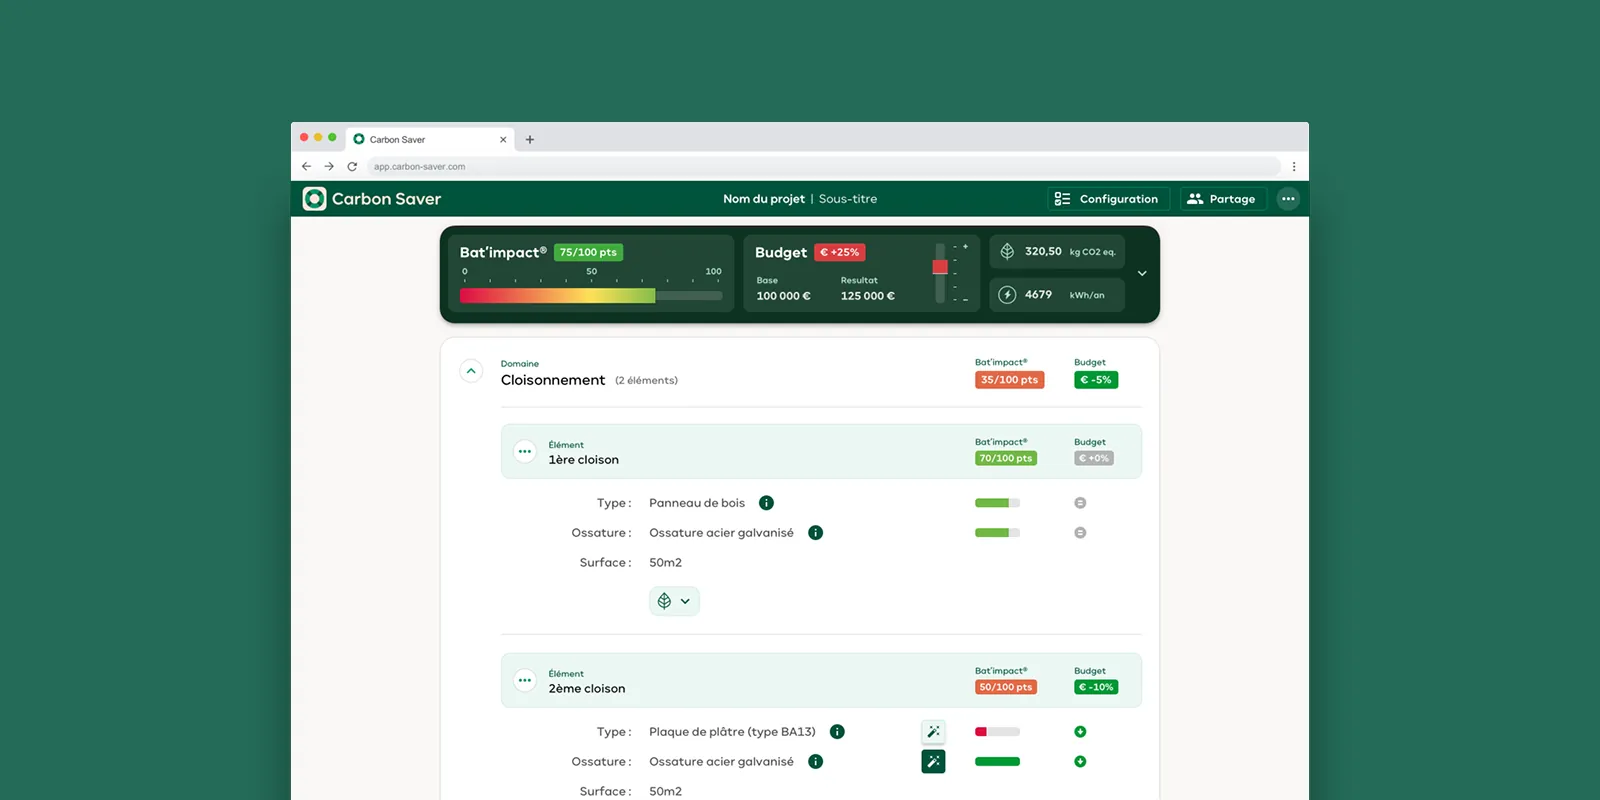
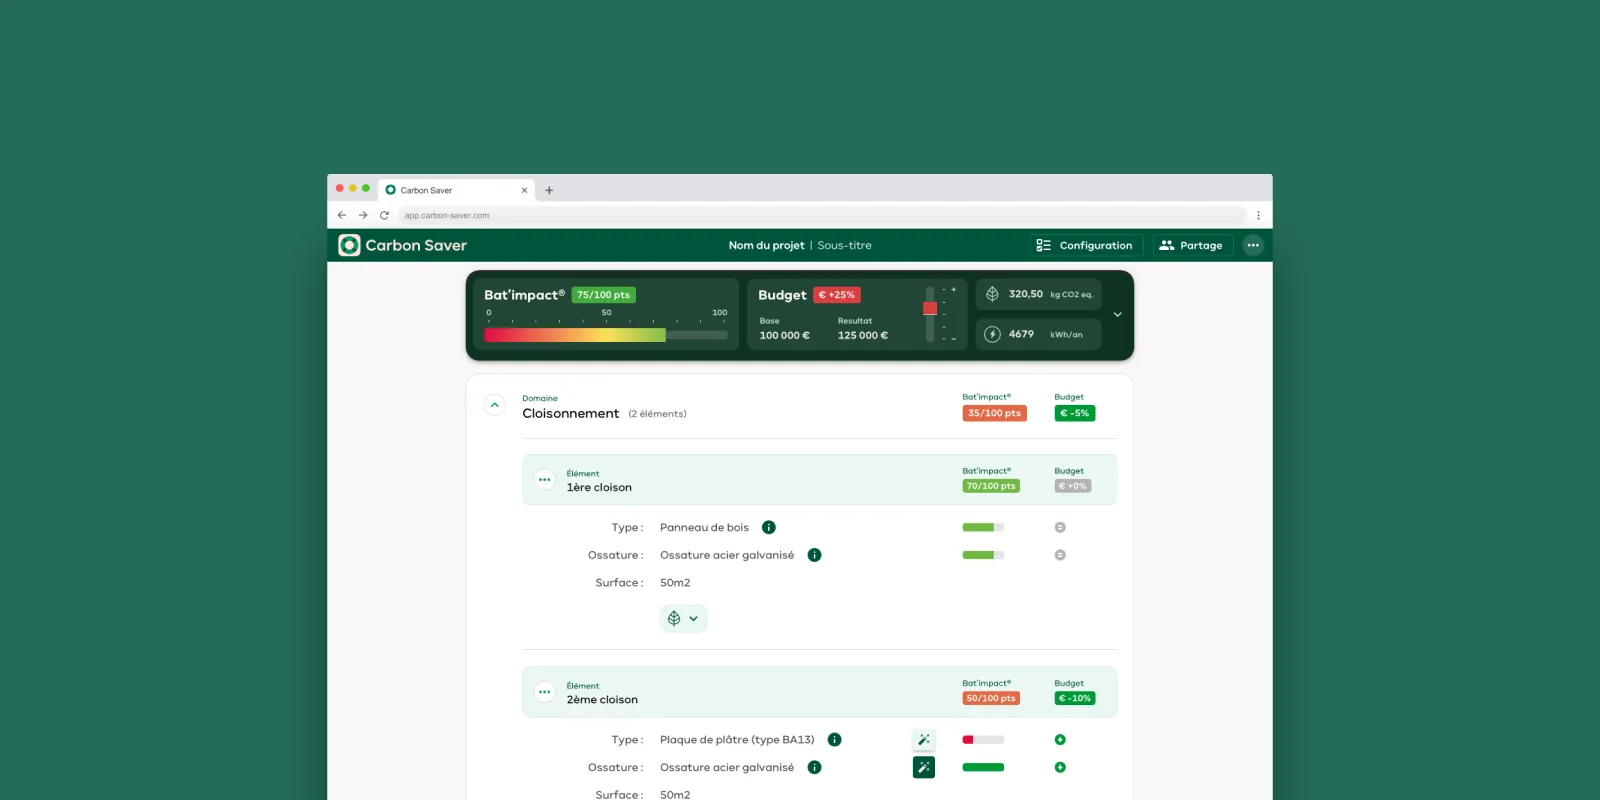
UI: numbered items, sub-lists, tags limit, ink-muted update

diff --git a/src/utils/notion-id.ts b/src/utils/notion-id.ts
@@ -20,7 +20,16 @@ function richTextToHtml(richText: any[]): string {
   }).join("");
 }
 
-function parseBlocks(blocks: any[]): ContentBlock[] {
+async function fetchChildren(blockId: string): Promise<any[]> {
+  try {
+    const res = await notion.blocks.children.list({ block_id: blockId });
+    return res.results;
+  } catch {
+    return [];
+  }
+}
+
+async function parseBlocks(blocks: any[]): Promise<ContentBlock[]> {
   const result: ContentBlock[] = [];
 
   for (const block of blocks) {
@@ -37,8 +46,17 @@ function parseBlocks(blocks: any[]): ContentBlock[] {
         break;
       }
       case "paragraph": {
-        const html = richTextToHtml(block.paragraph.rich_text);
-        if (html) result.push({ type: "paragraph", text: html });
+        const plain = richTextToString(block.paragraph.rich_text).trim();
+        const match = plain.match(/^>>(\d+)\s*([\s\S]*)$/);
+        if (match) {
+          const num = match[1];
+          const html = richTextToHtml(block.paragraph.rich_text);
+          const textHtml = html.replace(/^(<(?:strong|em|b|i)[^>]*>)?&gt;&gt;\d+\s*/, '$1');
+          result.push({ type: "numbered_item", num, text: textHtml });
+        } else {
+          const html = richTextToHtml(block.paragraph.rich_text);
+          if (html) result.push({ type: "paragraph", text: html });
+        }
         break;
       }
       case "quote": {
@@ -47,8 +65,16 @@ function parseBlocks(blocks: any[]): ContentBlock[] {
         break;
       }
       case "bulleted_list_item": {
-        const html = richTextToHtml(block.bulleted_list_item.rich_text);
+        let html = richTextToHtml(block.bulleted_list_item.rich_text);
         if (!html) break;
+        if (block.has_children) {
+          const children = await fetchChildren(block.id);
+          const subItems = children
+            .filter((c: any) => c.type === "bulleted_list_item")
+            .map((c: any) => `<li>${richTextToHtml(c.bulleted_list_item.rich_text)}</li>`)
+            .join("");
+          if (subItems) html += `<ul class="sub-list">${subItems}</ul>`;
+        }
         const last = result[result.length - 1];
         if (last?.type === "bullet_list") {
           last.items.push(html);
@@ -93,7 +119,7 @@ export async function getContentById(id: string): Promise<ContentBlock[]> {
   if (!import.meta.env.NOTION_API_KEY) return [];
   try {
     const res = await notion.blocks.children.list({ block_id: id });
-    return parseBlocks(res.results);
+    return await parseBlocks(res.results);
   } catch {
     return [];
   }

diff --git a/src/types/case-study.ts b/src/types/case-study.ts
@@ -20,4 +20,5 @@ export type ContentBlock =
   | { type: "image"; url: string; alt: string }
   | { type: "bullet_list"; items: string[] }
   | { type: "numbered_list"; items: string[] }
-  | { type: "callout"; text: string; emoji?: string };
+  | { type: "callout"; text: string; emoji?: string }
+  | { type: "numbered_item"; num: string; text: string };
